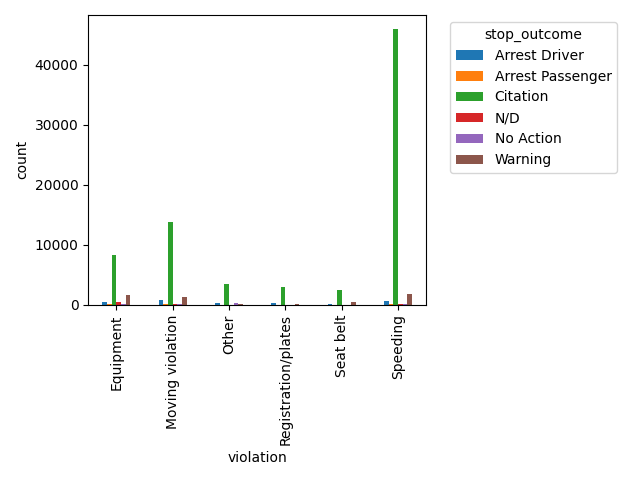
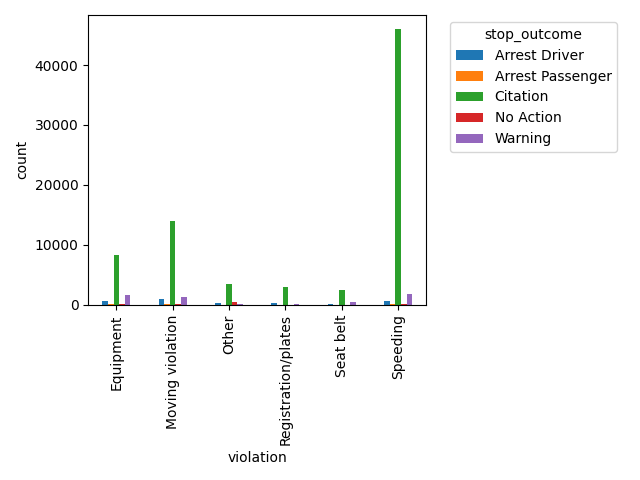
Processed search_type

diff --git a/project.py b/project.py
@@ -5,7 +5,6 @@ from sklearn.model_selection import train_test_split
 def read_file(filename):
   	return pd.read_csv(filename)
 
-
 def transform_data_columns_1_4(dataframe):
 	#The county name column can be dropped cause it is completely null
 	dataframe=dataframe.drop(columns=['county_name'], axis=1, inplace=False)
@@ -44,7 +43,16 @@ def group_and_plot_pivot_graph(df, columns, filename):
 
 def plot_pie_chart(df, column, filename):
 	fig, ax = plt.subplots()
-	counts = df[column].value_counts().plot(ax=ax, kind='pie')
+	df[column].value_counts().plot(ax=ax, kind='pie')
+	plt.tight_layout()
+	plt.savefig(filename)
+
+
+def plot_bar_graph(df, column, filename):
+	fig, ax = plt.subplots()
+	df[column].value_counts().plot(ax=ax, kind='bar')
+	plt.xlabel(column)
+	plt.ylabel('count')
 	plt.tight_layout()
 	plt.savefig(filename)
 
@@ -56,13 +64,29 @@ def transform_data_columns_9_12(df):
 	# search_type	
 	# stop_outcome
 
-	del df['search_type']
+	# Get the hour of day at which stop happened 
 	df['stop_hour'] = df['stop_time'].apply(lambda x: int(x.split(':')[0]))
+
+	# Remove unwanted column
+	plot_pie_chart(df, 'search_conducted', 'search_conducted.png')
+	del df['search_conducted']
+	
+	# Fill the empty values with string 'None' and make all the values atomic by splitting the comma separated search types
+	df['search_type'].fillna('None', inplace=True)
+	s = df['search_type'].str.split(',', expand=True).stack()
+	index = s.index.get_level_values(0)
+	df = df.loc[index].copy()
+	df['search_type'] = s.values
+
+	# Drop rows where the outcome is not avaliable
+	df = df[df.stop_outcome != 'N/D']
+
 	return df
 
 
 def visualize_data_columns_9_12(df):
-	plot_pie_chart(df, 'search_conducted', 'search_conducted.png')
+	df1 = df[df.search_type != 'None']
+	plot_bar_graph(df1, 'search_type', 'search_type.png')
 	group_and_plot_pivot_graph(df, ['stop_hour', 'violation'], 'violation.png')
 	group_and_plot_pivot_graph(df, ['violation', 'stop_outcome'], 'stop_outcome.png')
 
@@ -108,13 +132,14 @@ if __name__ == "__main__":
 	# Commenting out this method since it takes care of all columns and rows
 	# dataframe = general_preprocessing(dataframe)
 
-	# # Hari
+	# Hari Analysis
 	dataframe = transform_data_columns_1_4(dataframe) 
-	dataframe = visualize_data_columns_1_4(dataframe)
-
-
-	# Jayasurya
+	# Jayasurya Analysis
 	dataframe = transform_data_columns_9_12(dataframe) 
+	
+	# Hari visualization
+	visualize_data_columns_1_4(dataframe)
+	# Jayasurya visualization
 	visualize_data_columns_9_12(dataframe)
 
 
